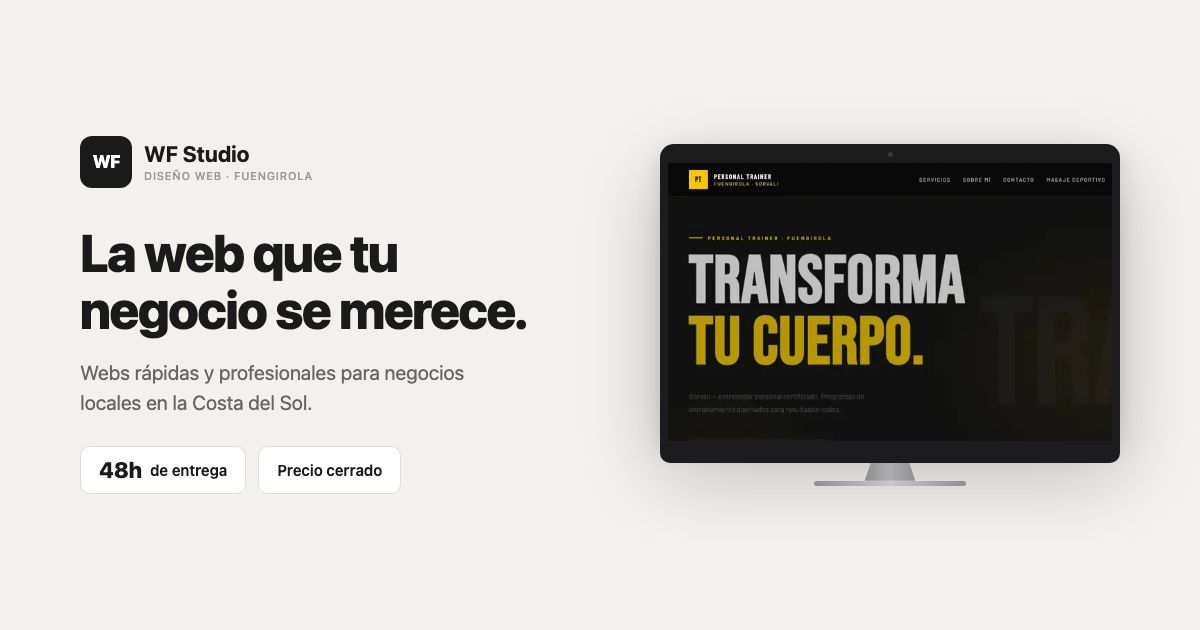
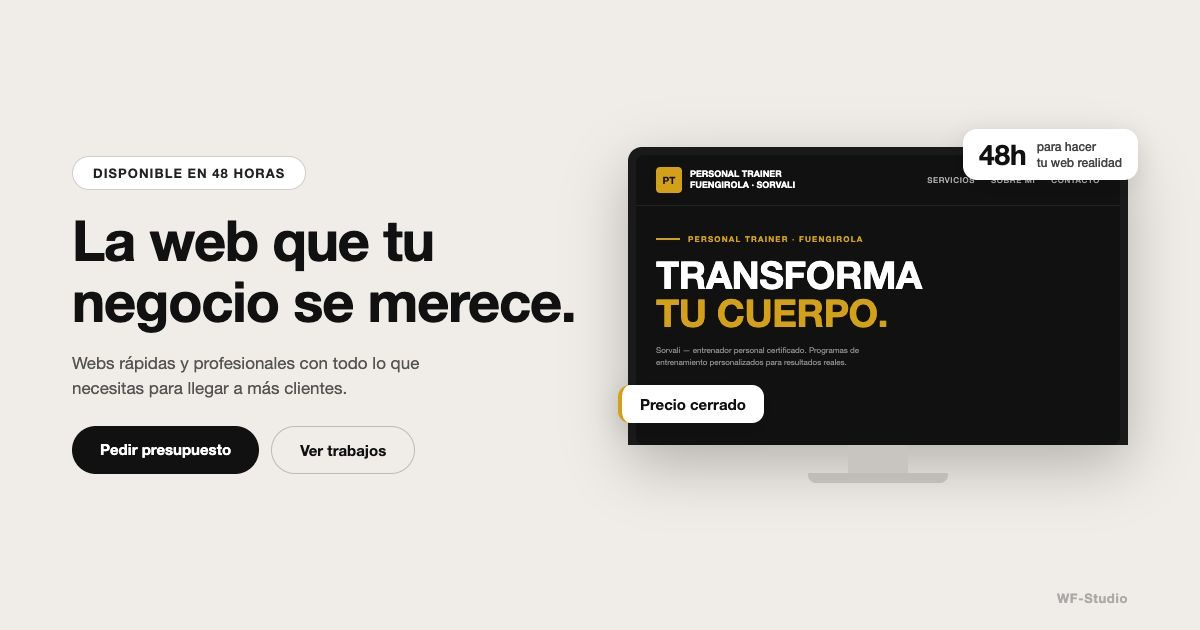
feat: OG image y texto WhatsApp — WF-Studio (#10)
* feat: update OG image and meta tags for WhatsApp preview

- Cambio og:title y og:description a "WF-Studio · La página web que tu negocio se merece"
- Regenera og-cover.jpg (1200×630, 53 KB) con diseño hero: texto + iMac mockup + badges flotantes
- Añade og-image-gen.html como fuente editable de la imagen OG

* feat: add JSON-LD structured data and fix og:description encoding

- Add ProfessionalService schema with name, url, description, serviceType,
  areaServed (Fuengirola / Costa del Sol / España), contactPoint and Offer
- No invented data: uses only email and phone already on the page
- Fix og:description using &quot; instead of backslash-escaped quotes
  (backslash is not a valid HTML escape character — broke the attribute value)
- og:title and og:image left unchanged

* chore: remove .claude/launch.json from repo, add .gitignore

Local Claude Code tooling should not be committed.

* chore: remove .gitignore from PR scope

---------

diff --git a/og-image-gen.html b/og-image-gen.html
@@ -1,0 +1,284 @@
+<!DOCTYPE html>
+<html lang="es">
+<head>
+<meta charset="UTF-8"/>
+<style>
+  * { margin: 0; padding: 0; box-sizing: border-box; }
+  html, body { width: 100%; height: 100%; }
+  body {
+    width: 100vw;
+    height: 100vh;
+    overflow: hidden;
+    background: #f0ede8;
+    font-family: -apple-system, 'Helvetica Neue', Arial, sans-serif;
+    display: flex;
+    align-items: center;
+    padding: 0 72px;
+    gap: 48px;
+  }
+
+  /* LEFT */
+  .left {
+    flex: 1;
+    display: flex;
+    flex-direction: column;
+    gap: 20px;
+  }
+  .badge {
+    display: inline-flex;
+    align-items: center;
+    background: #fff;
+    border: 1.5px solid #d0cdc8;
+    border-radius: 50px;
+    padding: 8px 20px;
+    font-size: 13px;
+    font-weight: 600;
+    letter-spacing: 0.08em;
+    color: #222;
+    width: fit-content;
+    text-transform: uppercase;
+  }
+  h1 {
+    font-size: 56px;
+    font-weight: 800;
+    line-height: 1.08;
+    color: #111;
+    letter-spacing: -0.02em;
+  }
+  .sub {
+    font-size: 17px;
+    color: #555;
+    line-height: 1.5;
+    max-width: 380px;
+  }
+  .btns {
+    display: flex;
+    gap: 12px;
+    margin-top: 4px;
+  }
+  .btn-primary {
+    background: #111;
+    color: #fff;
+    border-radius: 50px;
+    padding: 14px 28px;
+    font-size: 15px;
+    font-weight: 600;
+    border: none;
+  }
+  .btn-secondary {
+    background: transparent;
+    color: #111;
+    border-radius: 50px;
+    padding: 14px 28px;
+    font-size: 15px;
+    font-weight: 600;
+    border: 1.5px solid #bbb;
+  }
+
+  /* RIGHT */
+  .right {
+    position: relative;
+    width: 500px;
+    flex-shrink: 0;
+  }
+
+  /* iMac mockup */
+  .imac {
+    width: 500px;
+  }
+  .screen-wrap {
+    background: #1a1a1a;
+    border-radius: 14px 14px 0 0;
+    padding: 8px 8px 0;
+    box-shadow: 0 20px 60px rgba(0,0,0,0.25);
+  }
+  .screen-inner {
+    background: #111;
+    border-radius: 8px;
+    overflow: hidden;
+    height: 290px;
+  }
+  /* mini site inside screen */
+  .site-nav {
+    background: #111;
+    padding: 12px 20px;
+    display: flex;
+    align-items: center;
+    justify-content: space-between;
+    border-bottom: 1px solid #222;
+  }
+  .site-logo {
+    display: flex;
+    align-items: center;
+    gap: 8px;
+  }
+  .logo-box {
+    width: 26px; height: 26px;
+    background: #d4a017;
+    border-radius: 4px;
+    display: flex; align-items: center; justify-content: center;
+    font-size: 10px; font-weight: 800; color: #111;
+  }
+  .logo-text { color: #fff; font-size: 9px; font-weight: 600; line-height: 1.2; }
+  .site-links { display: flex; gap: 16px; }
+  .site-link { color: #aaa; font-size: 8px; font-weight: 500; letter-spacing: 0.08em; text-transform: uppercase; }
+  .site-hero {
+    padding: 28px 20px 20px;
+    background: #111;
+  }
+  .site-eyebrow {
+    color: #d4a017;
+    font-size: 8px;
+    font-weight: 600;
+    letter-spacing: 0.15em;
+    text-transform: uppercase;
+    margin-bottom: 12px;
+    display: flex;
+    align-items: center;
+    gap: 8px;
+  }
+  .site-eyebrow::before {
+    content: '';
+    display: block;
+    width: 24px; height: 1.5px;
+    background: #d4a017;
+  }
+  .site-h1 {
+    font-size: 38px;
+    font-weight: 900;
+    line-height: 1;
+    color: #fff;
+    text-transform: uppercase;
+    letter-spacing: -0.01em;
+  }
+  .site-h1 span { color: #d4a017; }
+  .site-body {
+    margin-top: 12px;
+    font-size: 8px;
+    color: #888;
+    line-height: 1.5;
+    max-width: 220px;
+  }
+
+  /* Stand */
+  .stand-neck {
+    width: 60px;
+    height: 28px;
+    background: #c8c5c0;
+    margin: 0 auto;
+  }
+  .stand-base {
+    width: 140px;
+    height: 10px;
+    background: #c0bdb8;
+    border-radius: 0 0 8px 8px;
+    margin: 0 auto;
+  }
+
+  /* Floating badges */
+  .badge-48 {
+    position: absolute;
+    top: -18px;
+    right: -10px;
+    background: #fff;
+    border-radius: 14px;
+    padding: 10px 16px;
+    box-shadow: 0 6px 24px rgba(0,0,0,0.12);
+    display: flex;
+    align-items: center;
+    gap: 10px;
+  }
+  .badge-48 .num {
+    font-size: 28px;
+    font-weight: 900;
+    color: #111;
+    line-height: 1;
+  }
+  .badge-48 .label {
+    font-size: 12px;
+    color: #444;
+    line-height: 1.3;
+    font-weight: 500;
+  }
+
+  .badge-precio {
+    position: absolute;
+    bottom: 60px;
+    left: -10px;
+    background: #fff;
+    border-radius: 12px;
+    padding: 10px 18px;
+    box-shadow: 0 6px 24px rgba(0,0,0,0.12);
+    font-size: 15px;
+    font-weight: 800;
+    color: #111;
+    border-left: 4px solid #d4a017;
+  }
+
+  /* Studio watermark bottom right */
+  .watermark {
+    position: absolute;
+    bottom: 24px;
+    right: 72px;
+    font-size: 13px;
+    font-weight: 700;
+    color: #aaa;
+    letter-spacing: 0.05em;
+  }
+</style>
+</head>
+<body>
+
+  <div class="left">
+    <div class="badge">Disponible en 48 horas</div>
+    <h1>La web que tu<br>negocio se merece.</h1>
+    <p class="sub">Webs rápidas y profesionales con todo lo que necesitas para llegar a más clientes.</p>
+    <div class="btns">
+      <div class="btn-primary">Pedir presupuesto</div>
+      <div class="btn-secondary">Ver trabajos</div>
+    </div>
+  </div>
+
+  <div class="right">
+    <!-- Floating 48h badge -->
+    <div class="badge-48">
+      <span class="num">48h</span>
+      <span class="label">para hacer<br>tu web realidad</span>
+    </div>
+
+    <!-- iMac -->
+    <div class="imac">
+      <div class="screen-wrap">
+        <div class="screen-inner">
+          <!-- mini nav -->
+          <div class="site-nav">
+            <div class="site-logo">
+              <div class="logo-box">PT</div>
+              <div class="logo-text">PERSONAL TRAINER<br>FUENGIROLA · SORVALI</div>
+            </div>
+            <div class="site-links">
+              <span class="site-link">Servicios</span>
+              <span class="site-link">Sobre mí</span>
+              <span class="site-link">Contacto</span>
+            </div>
+          </div>
+          <!-- mini hero -->
+          <div class="site-hero">
+            <div class="site-eyebrow">Personal Trainer · Fuengirola</div>
+            <div class="site-h1">TRANSFORMA<br><span>TU CUERPO.</span></div>
+            <div class="site-body">Sorvali — entrenador personal certificado. Programas de entrenamiento personalizados para resultados reales.</div>
+          </div>
+        </div>
+      </div>
+      <div class="stand-neck"></div>
+      <div class="stand-base"></div>
+    </div>
+
+    <!-- Floating precio badge -->
+    <div class="badge-precio">Precio cerrado</div>
+  </div>
+
+  <div class="watermark">WF-Studio</div>
+
+</body>
+</html>

diff --git a/index.html b/index.html
@@ -12,8 +12,8 @@
   <meta name="robots" content="index, follow" />
 
   <!-- Open Graph -->
-  <meta property="og:title" data-i18n-meta-content="ogTitle" content="Web Fuengirola · Páginas web para comercios locales en 48h" />
-  <meta property="og:description" data-i18n-meta-content="ogDescription" content="Creamos webs sencillas, claras y profesionales para que tus clientes entiendan qué haces, dónde estás y cómo contactar contigo. Desde 300€ + IVA." />
+  <meta property="og:title" data-i18n-meta-content="ogTitle" content="WF-Studio · La página web que tu negocio se merece" />
+  <meta property="og:description" data-i18n-meta-content="ogDescription" content="WF-Studio — &quot;La página web que tu negocio se merece&quot;" />
   <meta property="og:type" content="website" />
   <meta property="og:url" content="https://webfuengirola.es" />
   <meta property="og:locale" content="es_ES" />
@@ -36,6 +36,37 @@
     gtag('config', 'G-XXXXXXXXXX');
   </script>
   -->
+
+  <!-- Structured data — JSON-LD -->
+  <script type="application/ld+json">
+  {
+    "@context": "https://schema.org",
+    "@type": "ProfessionalService",
+    "name": "WF-Studio",
+    "url": "https://webfuengirola.es",
+    "description": "Estudio de diseño web para negocios locales en Fuengirola y la Costa del Sol. Páginas web profesionales en 48 horas desde 300 € + IVA: diseño responsivo, SEO básico, botón WhatsApp y formulario de contacto incluidos.",
+    "serviceType": "Diseño web para negocios locales",
+    "areaServed": [
+      { "@type": "City", "name": "Fuengirola" },
+      { "@type": "AdministrativeArea", "name": "Costa del Sol" },
+      { "@type": "Country", "name": "España" }
+    ],
+    "offers": {
+      "@type": "Offer",
+      "name": "Página web profesional en 48 horas",
+      "price": "300",
+      "priceCurrency": "EUR",
+      "description": "Diseño web completo con SEO básico, adaptación móvil, botón de WhatsApp y formulario de contacto. Entrega en 48 horas. Precio cerrado desde 300 € + IVA."
+    },
+    "contactPoint": {
+      "@type": "ContactPoint",
+      "contactType": "sales",
+      "email": "[email redacted]",
+      "telephone": "[phone redacted]",
+      "availableLanguage": ["Spanish", "English"]
+    }
+  }
+  </script>
 
   <link rel="stylesheet" href="style.css?v=5" />
   <link rel="preconnect" href="https://fonts.googleapis.com" />